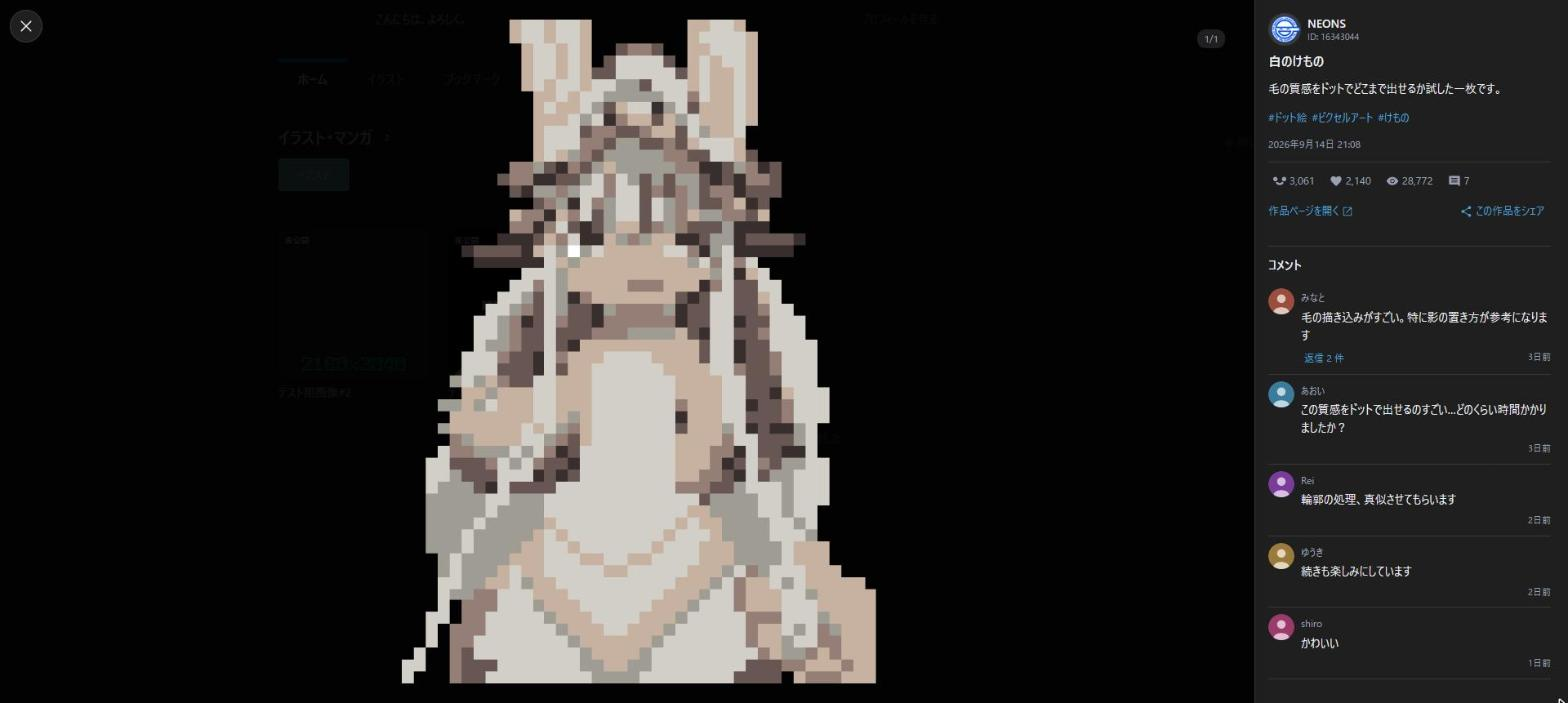
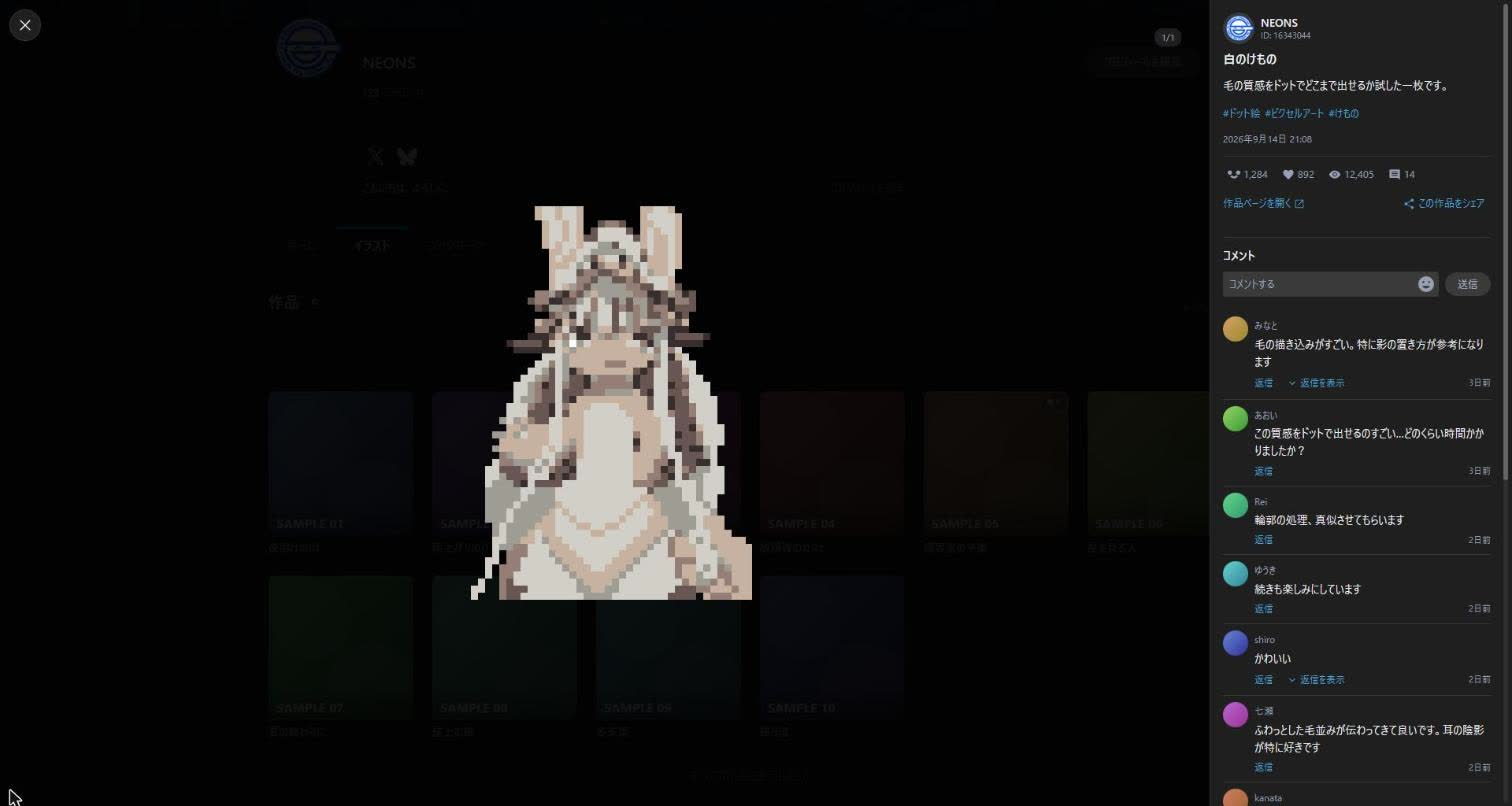
docs: 紹介サイトのスクリーンショットを現行の UI で撮り直す
ヒーローとサイドバーの 2 枚がコメント投稿機能より前の版で、サイドバーに
入力欄が写っていなかった。ビューポート全体を撮り直し、実寸に合わせて
width / height と代替テキストも直す (1568x703 -> 1512x806)。

作品画像は作者自身のドット絵、投稿情報とコメントはダミー。これまでと
同じ作り方で、断り書きの前提も変わらない。設定ポップアップの 1 枚は
現行と一致していたのでそのまま。

diff --git a/site/index.html b/site/index.html
@@ -102,8 +102,8 @@
 			</div>
 			<p class="cta-note">現在ストアの審査を待っています。公開され次第このボタンから入手できるようになります。</p>
 			<div class="hero-shot">
-				<img src="assets/img/shot-viewer.jpg" width="1568" height="703"
-					alt="pixiv の作品がモーダルで開き、右側のサイドバーに投稿文、タグ、カウンタ、コメントが並んでいる画面">
+				<img src="assets/img/shot-viewer.jpg" width="1512" height="806"
+					alt="pixiv の作品がモーダルで開き、右側のサイドバーに投稿文、タグ、カウンタ、コメント入力欄、コメントが並んでいる画面">
 			</div>
 		</div>
 	</section>
@@ -172,8 +172,8 @@
 					</ul>
 				</div>
 				<figure>
-					<img src="assets/img/shot-comments.jpg" width="1568" height="703"
-						alt="サイドバーにコメントが並び、スタンプと絵文字が画像で表示されている画面">
+					<img src="assets/img/shot-comments.jpg" width="1512" height="806"
+						alt="サイドバーの上部にコメント入力欄があり、その下にコメントが並んでいる画面">
 				</figure>
 			</div>
 

diff --git a/site/en/index.html b/site/en/index.html
@@ -99,7 +99,7 @@
 			</div>
 			<p class="cta-note">The extension is awaiting store review. This button will go live once it is published.</p>
 			<div class="hero-shot">
-				<img src="../assets/img/shot-viewer.jpg" width="1568" height="703"
+				<img src="../assets/img/shot-viewer.jpg" width="1512" height="806"
 					alt="A pixiv artwork open in the modal viewer, with the caption, tags, counters and comments in the sidebar on the right">
 			</div>
 		</div>
@@ -169,8 +169,8 @@
 					</ul>
 				</div>
 				<figure>
-					<img src="../assets/img/shot-comments.jpg" width="1568" height="703"
-						alt="The sidebar showing a list of comments with stamps and emoji rendered as images">
+					<img src="../assets/img/shot-comments.jpg" width="1512" height="806"
+						alt="The sidebar with the comment box at the top and a list of comments below it">
 				</figure>
 			</div>
 
